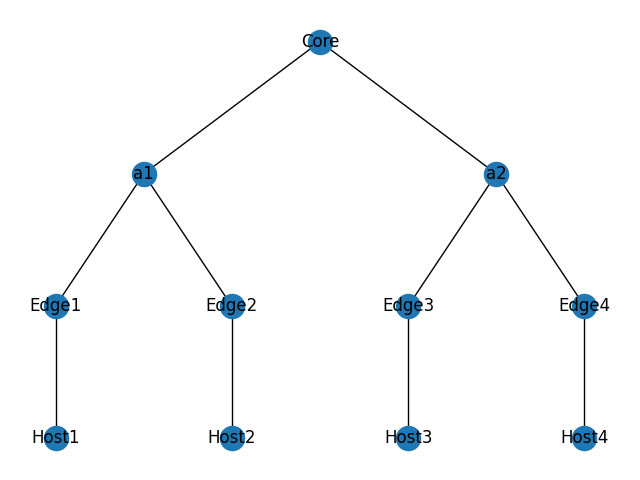
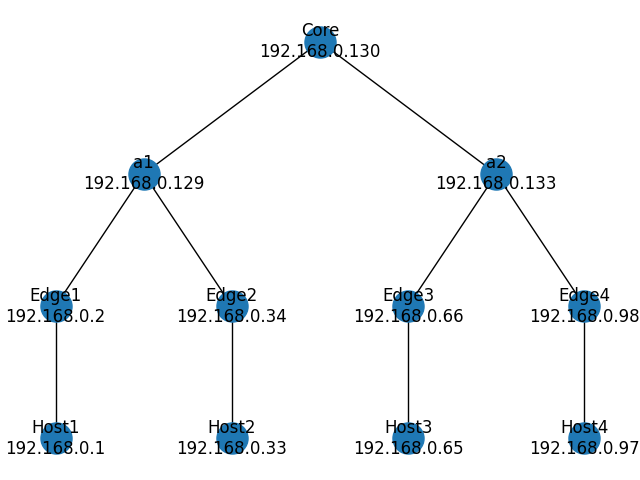
falta revisar os ips

diff --git a/tests.py b/tests.py
@@ -6,6 +6,7 @@ class NetworkSimulator:
         self.graph = nx.Graph()
         self.nodes = {}
         self.build_topology()
+        self.labels={}
 
     def add_node(self, name, ip, node_type):
         """Adiciona um nó à rede com nome, IP e tipo (host, router ou switch)."""
@@ -25,16 +26,16 @@ class NetworkSimulator:
         self.add_node("a2", "192.168.0.133", "router")
 
         # Switches de borda (representando as subredes)
-        self.add_node("Edge1", "192.168.0.2", "switch")   # Subrede e1 (capacidade para 24 hosts)
-        self.add_node("Edge2", "192.168.0.34", "switch")  # Subrede e2 (capacidade para 24 hosts)
-        self.add_node("Edge3", "192.168.0.66", "switch")  # Subrede e3 (capacidade para 15 hosts ou mais)
-        self.add_node("Edge4", "192.168.0.98", "switch")  # Subrede e4 (capacidade para 15 hosts ou mais)
+        self.add_node("Edge1", "235.123.1.35", "switch")   # Subrede e1 (capacidade para 24 hosts)
+        self.add_node("Edge2", "192.168.2.35", "switch")  # Subrede e2 (capacidade para 24 hosts)
+        self.add_node("Edge3", "192.168.3.25", "switch")  # Subrede e3 (capacidade para 15 hosts ou mais)
+        self.add_node("Edge4", "192.168.0.25", "switch")  # Subrede e4 (capacidade para 15 hosts ou mais)
 
         # Hosts (um por subrede para exemplificar)
-        self.add_node("Host1", "192.168.0.1", "host")
-        self.add_node("Host2", "192.168.0.33", "host")
-        self.add_node("Host3", "192.168.0.65", "host")
-        self.add_node("Host4", "192.168.0.97", "host")
+        self.add_node("Host1", "235.123.1/27", "host")#24
+        self.add_node("Host2", "235.123.2/27", "host")#24
+        self.add_node("Host3", "235.123.3/28", "host")#15
+        self.add_node("Host4", "235.123.4/28", "host")#15
 
         # Conexões da topologia:
         # Conecta o Core aos roteadores de agregação
@@ -52,6 +53,8 @@ class NetworkSimulator:
         self.add_edge("Edge2", "Host2")
         self.add_edge("Edge3", "Host3")
         self.add_edge("Edge4", "Host4")
+
+        self.labels = {node: f"{node}\n{data['ip']}" for node, data in self.graph.nodes(data=True)}
 
     def find_node_by_ip(self, ip):
         for node, data in self.graph.nodes(data=True):
@@ -103,15 +106,22 @@ class NetworkSimulator:
         except nx.NetworkXNoPath:
             print("Destino inalcançável.")
 
+    def draw(self):
+        self.labels = {node: f"{node}\n{data['ip']}" for node, data in self.graph.nodes(data=True)}
+        pos = h(sim.graph,"Core")  
+        # nx.draw_networkx(sim.graph,pos=pos,labels=sim.labels,node_size=500,with_labels=True)
+        nx.draw(sim.graph,pos=pos,labels=sim.labels,node_size=500,with_labels=True)
+        # plt.show()
+        plt.savefig('hierarchy.png')
+
 if __name__ == "__main__":
     sim = NetworkSimulator()
     print("Bem-vindo ao simulador de rede!\n")
     print("Exemplos de IPs disponíveis na rede:")
-    for node, info in sim.nodes.items():
-        print(f"{node}: {info['ip']} ({info['type']})")
-    pos = h(sim.graph,"Core")    
-    nx.draw(sim.graph,pos=pos,with_labels=True)
-    plt.savefig('hierarchy.png')
+    sim.draw()
+    
+    
+
     while True:
         print("\nComandos disponíveis: ping, traceroute, exit")
         cmd = input("Digite o comando: ").strip().lower()
@@ -126,6 +136,5 @@ if __name__ == "__main__":
             source = input("Digite o IP de origem: ").strip()
             dest = input("Digite o IP de destino: ").strip()
             sim.traceroute(source, dest)
-        
         else:
             print("Comando não reconhecido.")
